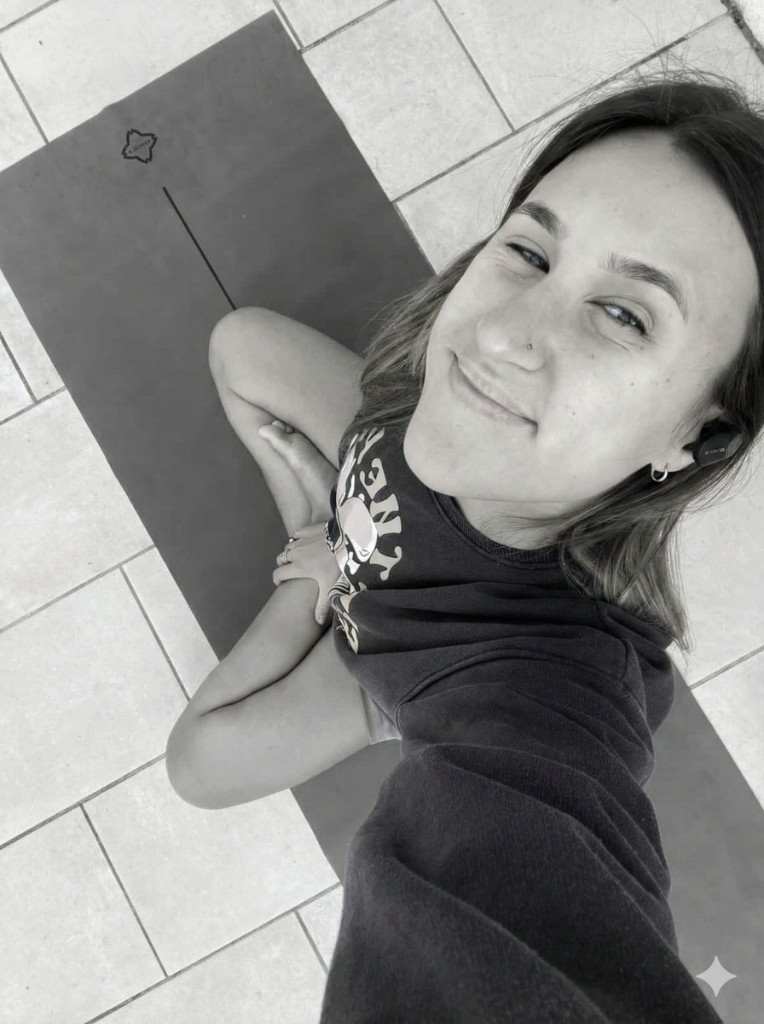
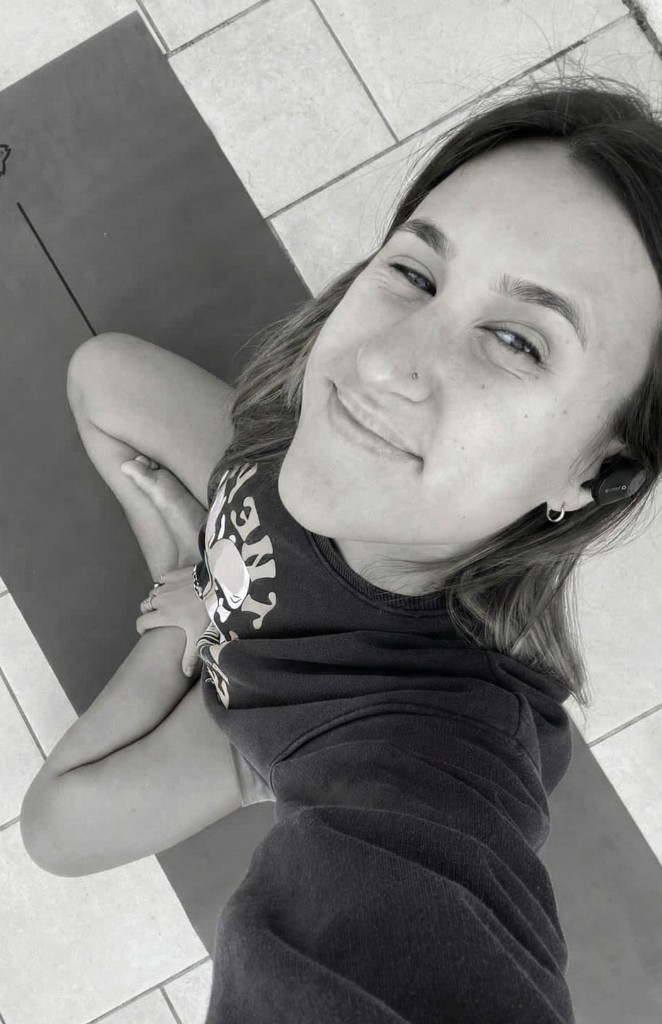
fix: use properly cropped photo for Marie

diff --git a/app/(public)/profs/page.tsx b/app/(public)/profs/page.tsx
@@ -43,7 +43,7 @@ export default async function ProfsPage() {
                         src={teacher.photoUrl} 
                         alt={teacher.displayName}
                         className="w-full h-full object-cover"
-                        style={{ objectPosition: teacher.displayName === 'Marie' ? '85% 0%' : 'center top' }}
+                        style={{ objectPosition: 'center top' }}
                       />
                     ) : (
                       <span className="text-4xl font-bold text-tempo-bordeaux/20">
